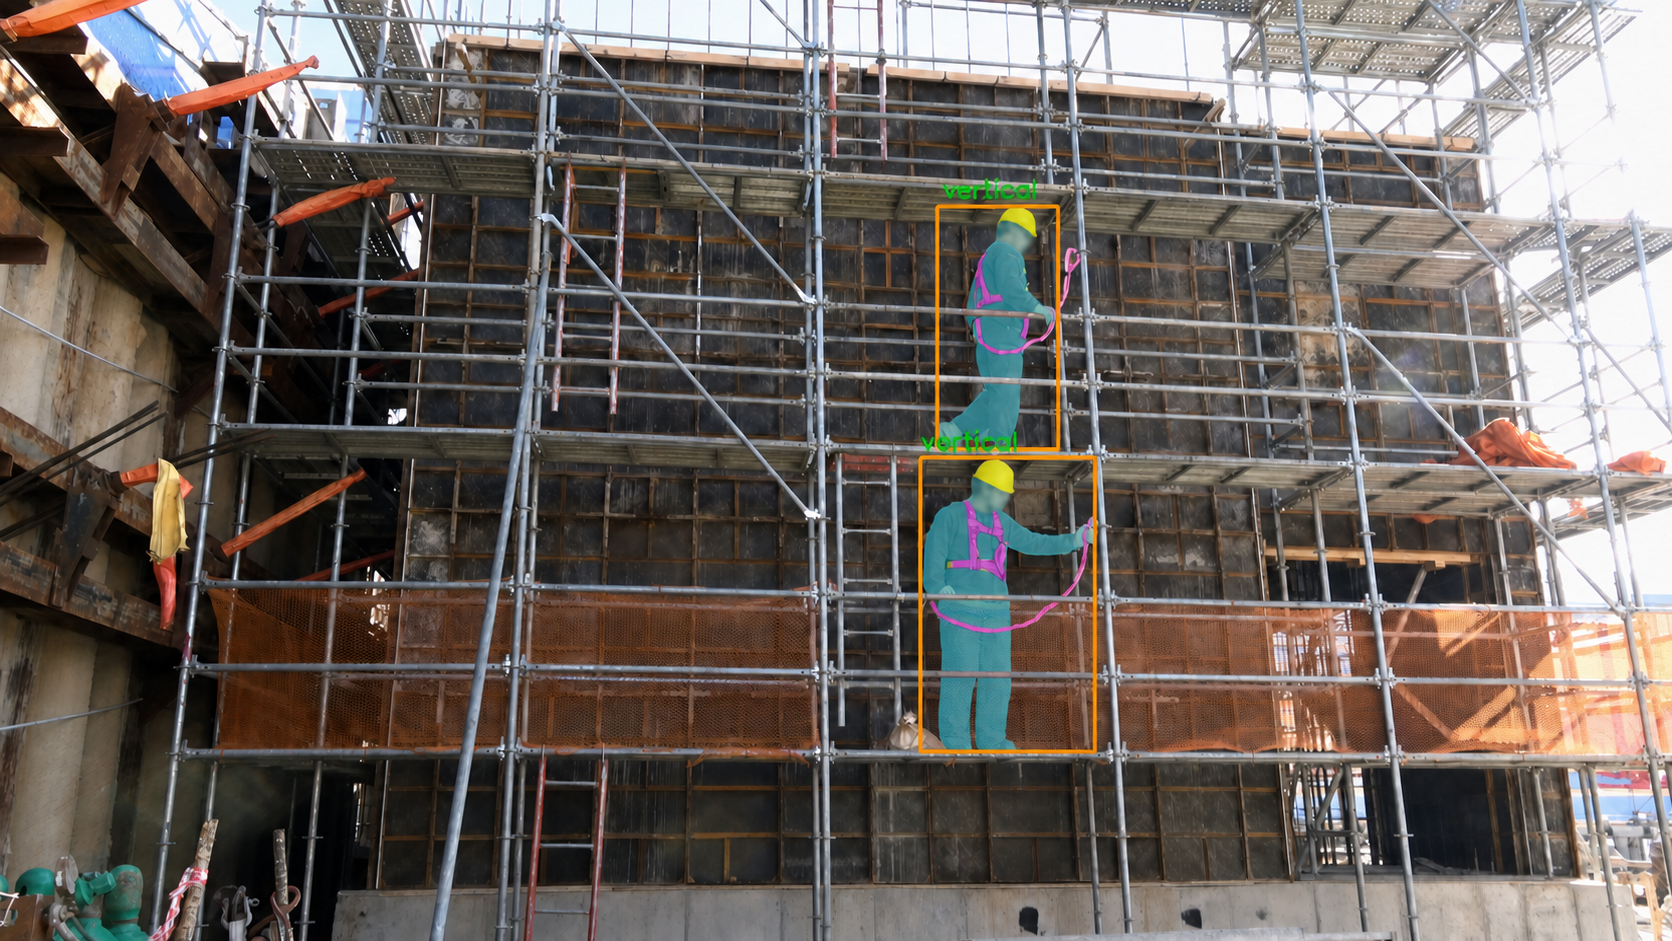
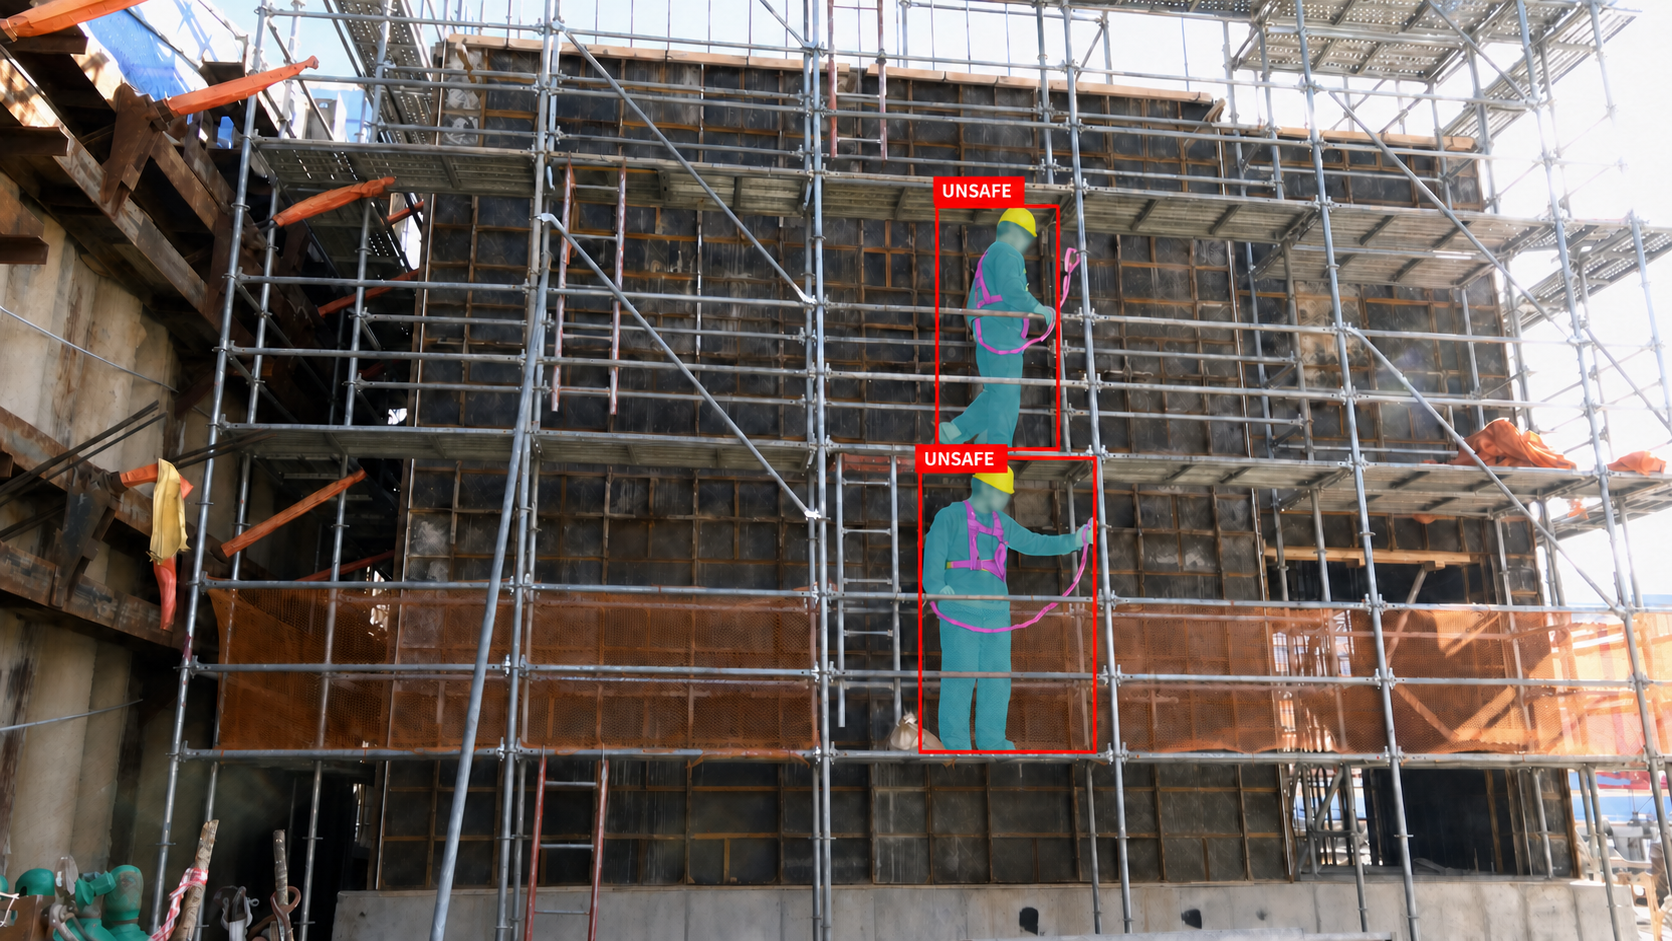
vision.html · 5대 감지 시나리오 이미지 annotated 폴더로 교체
- Feature 02 스트립 · Feature 04 캐러셀 · lightbox 팝업 15곳
- processed → annotated 이미지 (경계 박스·라벨 표시 버전)
- 상하동시작업 · 안전대 · 안전모 · 중장비 · 개구부 5개 카테고리

diff --git a/vision.html b/vision.html
@@ -388,9 +388,9 @@
           </div>
           <div class="grid grid-cols-2 sm:grid-cols-3 lg:grid-cols-5 gap-3 md:gap-4">
             <!-- 01 안전모 미착용 (캐러셀 Case 01) -->
-            <button class="lb-trigger group" data-lb="assets/vision/detection/processed/03-helmet/helmet-006-processed.png" data-lb-cap="안전모 미착용 감지" aria-label="안전모 미착용 감지 예시 크게 보기">
+            <button class="lb-trigger group" data-lb="assets/vision/detection/annotated/03-helmet/helmet-006-annotated.png" data-lb-cap="안전모 미착용 감지" aria-label="안전모 미착용 감지 예시 크게 보기">
               <div class="lb-thumb aspect-[4/3] overflow-hidden bg-band">
-                <img src="assets/vision/detection/processed/03-helmet/helmet-006-processed.png" alt="안전모 미착용" class="w-full h-full object-cover" loading="lazy">
+                <img src="assets/vision/detection/annotated/03-helmet/helmet-006-annotated.png" alt="안전모 미착용" class="w-full h-full object-cover" loading="lazy">
                 <span class="lb-badge"><iconify-icon icon="solar:magnifer-zoom-in-linear" class="text-[12px]"></iconify-icon>확대</span>
               </div>
               <p class="mt-2.5 text-[13.5px] font-bold text-ink text-left">안전모 미착용</p>
@@ -399,9 +399,9 @@
               </div>
             </button>
             <!-- 02 안전대 미착용 (캐러셀 Case 02 · 스트랩→안전대) -->
-            <button class="lb-trigger group" data-lb="assets/vision/detection/processed/02-fall-strap/fall-strap-003-processed.png" data-lb-cap="고소작업 · 안전대 미착용 감지" aria-label="안전대 미착용 감지 예시 크게 보기">
+            <button class="lb-trigger group" data-lb="assets/vision/detection/annotated/02-fall-strap/fall-strap-003-annotated.png" data-lb-cap="고소작업 · 안전대 미착용 감지" aria-label="안전대 미착용 감지 예시 크게 보기">
               <div class="lb-thumb aspect-[4/3] overflow-hidden bg-band">
-                <img src="assets/vision/detection/processed/02-fall-strap/fall-strap-003-processed.png" alt="안전대 미착용" class="w-full h-full object-cover" loading="lazy">
+                <img src="assets/vision/detection/annotated/02-fall-strap/fall-strap-003-annotated.png" alt="안전대 미착용" class="w-full h-full object-cover" loading="lazy">
                 <span class="lb-badge"><iconify-icon icon="solar:magnifer-zoom-in-linear" class="text-[12px]"></iconify-icon>확대</span>
               </div>
               <p class="mt-2.5 text-[13.5px] font-bold text-ink text-left">안전대 미착용</p>
@@ -410,9 +410,9 @@
               </div>
             </button>
             <!-- 03 개구부 안전조치 미비 (캐러셀 Case 03) -->
-            <button class="lb-trigger group" data-lb="assets/vision/detection/processed/05-opening/opening-004-processed.png" data-lb-cap="개구부 안전조치 미비 감지" aria-label="개구부 안전조치 미비 감지 예시 크게 보기">
+            <button class="lb-trigger group" data-lb="assets/vision/detection/annotated/05-opening/opening-004-annotated.png" data-lb-cap="개구부 안전조치 미비 감지" aria-label="개구부 안전조치 미비 감지 예시 크게 보기">
               <div class="lb-thumb aspect-[4/3] overflow-hidden bg-band">
-                <img src="assets/vision/detection/processed/05-opening/opening-004-processed.png" alt="개구부 안전조치 미비" class="w-full h-full object-cover" loading="lazy">
+                <img src="assets/vision/detection/annotated/05-opening/opening-004-annotated.png" alt="개구부 안전조치 미비" class="w-full h-full object-cover" loading="lazy">
                 <span class="lb-badge"><iconify-icon icon="solar:magnifer-zoom-in-linear" class="text-[12px]"></iconify-icon>확대</span>
               </div>
               <p class="mt-2.5 text-[13.5px] font-bold text-ink text-left">개구부 안전조치 미비</p>
@@ -422,9 +422,9 @@
               </div>
             </button>
             <!-- 04 상하동시작업 (캐러셀 Case 04) -->
-            <button class="lb-trigger group" data-lb="assets/vision/detection/processed/01-simultaneous-work/simultaneous-work-001-processed.png" data-lb-cap="상하동시작업 · 상·하부 동시 작업 상황 감지" aria-label="상하동시작업 감지 예시 크게 보기">
+            <button class="lb-trigger group" data-lb="assets/vision/detection/annotated/01-simultaneous-work/simultaneous-work-001-annotated.png" data-lb-cap="상하동시작업 · 상·하부 동시 작업 상황 감지" aria-label="상하동시작업 감지 예시 크게 보기">
               <div class="lb-thumb aspect-[4/3] overflow-hidden bg-band">
-                <img src="assets/vision/detection/processed/01-simultaneous-work/simultaneous-work-001-processed.png" alt="상하동시작업 감지" class="w-full h-full object-cover" loading="lazy">
+                <img src="assets/vision/detection/annotated/01-simultaneous-work/simultaneous-work-001-annotated.png" alt="상하동시작업 감지" class="w-full h-full object-cover" loading="lazy">
                 <span class="lb-badge"><iconify-icon icon="solar:magnifer-zoom-in-linear" class="text-[12px]"></iconify-icon>확대</span>
               </div>
               <p class="mt-2.5 text-[13.5px] font-bold text-ink text-left">상하동시작업</p>
@@ -434,9 +434,9 @@
               </div>
             </button>
             <!-- 05 중장비 위험구역 (캐러셀 Case 05) -->
-            <button class="lb-trigger group" data-lb="assets/vision/detection/processed/04-heavy-equipment/heavy-equipment-014-processed.png" data-lb-cap="중장비 위험구역 침범 · 작업자 반경 진입 감지" aria-label="중장비 위험구역 침범 감지 예시 크게 보기">
+            <button class="lb-trigger group" data-lb="assets/vision/detection/annotated/04-heavy-equipment/heavy-equipment-003-annotated.png" data-lb-cap="중장비 위험구역 침범 · 작업자 반경 진입 감지" aria-label="중장비 위험구역 침범 감지 예시 크게 보기">
               <div class="lb-thumb aspect-[4/3] overflow-hidden bg-band">
-                <img src="assets/vision/detection/processed/04-heavy-equipment/heavy-equipment-014-processed.png" alt="중장비 위험구역" class="w-full h-full object-cover" loading="lazy">
+                <img src="assets/vision/detection/annotated/04-heavy-equipment/heavy-equipment-003-annotated.png" alt="중장비 위험구역" class="w-full h-full object-cover" loading="lazy">
                 <span class="lb-badge"><iconify-icon icon="solar:magnifer-zoom-in-linear" class="text-[12px]"></iconify-icon>확대</span>
               </div>
               <p class="mt-2.5 text-[13.5px] font-bold text-ink text-left">중장비 위험구역</p>
@@ -508,7 +508,7 @@
               <div class="lc-slide active">
                 <div class="grid md:grid-cols-[1fr_1fr] gap-6 md:gap-8 items-stretch">
                   <div class="aspect-[4/3] md:aspect-auto overflow-hidden bg-band">
-                    <img src="assets/vision/detection/processed/03-helmet/helmet-006-processed.png" alt="안전모 미착용 감지" class="w-full h-full object-cover" loading="lazy">
+                    <img src="assets/vision/detection/annotated/03-helmet/helmet-006-annotated.png" alt="안전모 미착용 감지" class="w-full h-full object-cover" loading="lazy">
                   </div>
                   <div class="bg-white border border-hair p-6 md:p-7 flex flex-col justify-center">
                     <p class="text-[12px] font-extrabold text-accent tracking-[0.14em] uppercase mb-3">Case 01 · 안전모 미착용</p>
@@ -530,7 +530,7 @@
               <div class="lc-slide">
                 <div class="grid md:grid-cols-[1fr_1fr] gap-6 md:gap-8 items-stretch">
                   <div class="aspect-[4/3] md:aspect-auto overflow-hidden bg-band">
-                    <img src="assets/vision/detection/processed/02-fall-strap/fall-strap-003-processed.png" alt="고소작업 안전대 미착용 감지" class="w-full h-full object-cover" loading="lazy">
+                    <img src="assets/vision/detection/annotated/02-fall-strap/fall-strap-003-annotated.png" alt="고소작업 안전대 미착용 감지" class="w-full h-full object-cover" loading="lazy">
                   </div>
                   <div class="bg-white border border-hair p-6 md:p-7 flex flex-col justify-center">
                     <p class="text-[12px] font-extrabold text-accent tracking-[0.14em] uppercase mb-3">Case 02 · 고소작업 안전대 미착용</p>
@@ -552,7 +552,7 @@
               <div class="lc-slide">
                 <div class="grid md:grid-cols-[1fr_1fr] gap-6 md:gap-8 items-stretch">
                   <div class="aspect-[4/3] md:aspect-auto overflow-hidden bg-band">
-                    <img src="assets/vision/detection/processed/05-opening/opening-004-processed.png" alt="개구부 안전조치 미비 감지" class="w-full h-full object-cover" loading="lazy">
+                    <img src="assets/vision/detection/annotated/05-opening/opening-004-annotated.png" alt="개구부 안전조치 미비 감지" class="w-full h-full object-cover" loading="lazy">
                   </div>
                   <div class="bg-white border border-hair p-6 md:p-7 flex flex-col justify-center">
                     <p class="text-[12px] font-extrabold text-accent tracking-[0.14em] uppercase mb-3">Case 03 · 개구부 안전조치 미비</p>
@@ -574,7 +574,7 @@
               <div class="lc-slide">
                 <div class="grid md:grid-cols-[1fr_1fr] gap-6 md:gap-8 items-stretch">
                   <div class="aspect-[4/3] md:aspect-auto overflow-hidden bg-band">
-                    <img src="assets/vision/detection/processed/01-simultaneous-work/simultaneous-work-001-processed.png" alt="상하동시작업 감지" class="w-full h-full object-cover" loading="lazy">
+                    <img src="assets/vision/detection/annotated/01-simultaneous-work/simultaneous-work-001-annotated.png" alt="상하동시작업 감지" class="w-full h-full object-cover" loading="lazy">
                   </div>
                   <div class="bg-white border border-hair p-6 md:p-7 flex flex-col justify-center">
                     <p class="text-[12px] font-extrabold text-accent tracking-[0.14em] uppercase mb-3">Case 04 · 상하동시작업</p>
@@ -596,7 +596,7 @@
               <div class="lc-slide">
                 <div class="grid md:grid-cols-[1fr_1fr] gap-6 md:gap-8 items-stretch">
                   <div class="aspect-[4/3] md:aspect-auto overflow-hidden bg-band">
-                    <img src="assets/vision/detection/processed/04-heavy-equipment/heavy-equipment-014-processed.png" alt="중장비 위험구역 침범 감지" class="w-full h-full object-cover" loading="lazy">
+                    <img src="assets/vision/detection/annotated/04-heavy-equipment/heavy-equipment-003-annotated.png" alt="중장비 위험구역 침범 감지" class="w-full h-full object-cover" loading="lazy">
                   </div>
                   <div class="bg-white border border-hair p-6 md:p-7 flex flex-col justify-center">
                     <p class="text-[12px] font-extrabold text-accent tracking-[0.14em] uppercase mb-3">Case 05 · 중장비 위험구역 침범</p>
